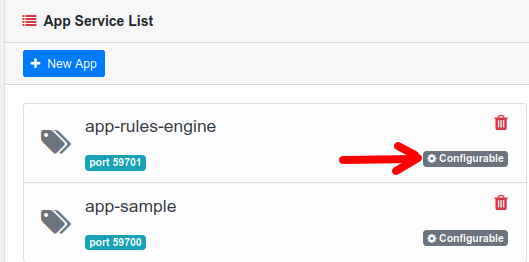
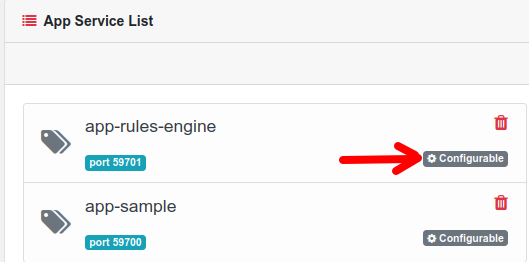
feat(microservices): removed add app service documentation per review

Changed region(s): [[0.0302, 0.1832, 0.2117, 0.3053]]

diff --git a/docs_src/getting-started/tools/Ch-GUI.md b/docs_src/getting-started/tools/Ch-GUI.md
@@ -262,24 +262,9 @@ When creating or editing the rule, if the stream referenced in the rule is not a
 
 ### AppService
 
-In the AppService page, you can configure existing configurable [application services](../../microservices/application/ApplicationServices.md) or add/delete application services.
+In the AppService page, you can configure existing configurable [application services](../../microservices/application/ApplicationServices.md).  The list of available configurable app services is determined by the UI automatically (based on a query for available app services from the registry service). 
 
 ![image](EdgeX_AppServiceList.png)
-
-#### Add or Delete an App Service
-
-"Adding" a new app service is about pointing the GUI to an app service that the GUI was unaware of.  If a new app service is created and added to the EdgeX instance, the GUI will not know this and must be informed of its existence.
-
-Push the `New App` button and the GUI will provide a form to specify the application service key or name (this is the name that the app service is registered with in Consul) and the port that the app service runs under.
-
-![image](EdgeX_AddAppService.png)
-
-From the App Service List, an application service can be "deleted".  In actuality, the service is not deleted, it is simply removed from the list of app services that the GUI manages.
-
-!!! Warning
-    If the app service key is incorrect, then it will not be found when the GUI tries to get its configuration and you will get an error message when trying to edit the configuration.
-
-    ![image](EdgeX_AppServiceNotFound.png)
 
 #### Configurable
 
